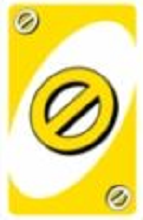
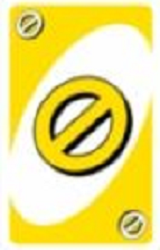
correções

diff --git a/style.css b/style.css
@@ -29,7 +29,12 @@ button {
 }
 
 img {
-    image-rendering: crisp-edges; /* ou image-rendering: pixelated; */
+    image-rendering: crisp-edges;
+    /* ou image-rendering: pixelated; */
+    width: 200px;
+    height: 200px;
+    border-radius: 10%;
+    /* Ajusta o valor do raio conforme necessário */
 }
 
 /* Carta */
@@ -47,7 +52,8 @@ img {
     object-fit: cover;
     width: 100%;
     height: 100%;
-    image-rendering: pixelated; /* Se você preferir um efeito pixelado */
+    image-rendering: pixelated;
+    /* Se você preferir um efeito pixelado */
     box-shadow: rgba(0, 0, 0, 0.2) 0px 4px 10px;
     transition: transform 0.3s ease-in-out, filter 0.3s ease-in-out;
     filter: saturate(1.2) brightness(1.1);
